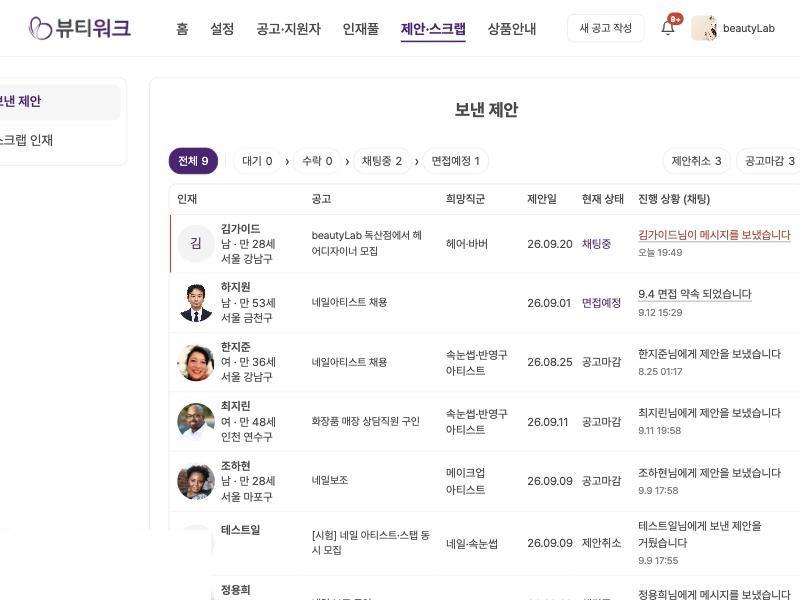
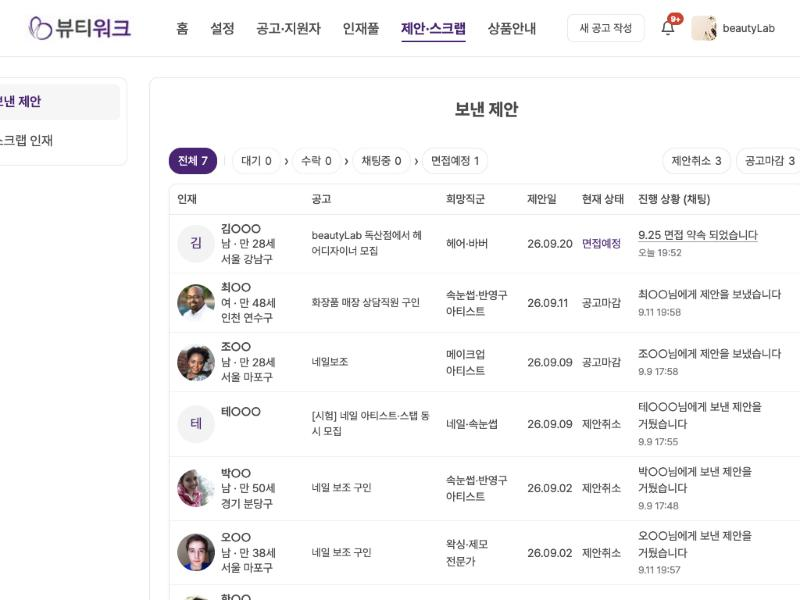
채워 넣기용 샘플 인재는 유·무료 상관없이 늘 이름을 가리고 아바타를 흐리게 한다
실존하지 않는 채워 넣기 인재인데 유료 기업에는 실명이 그대로 뜨고, 사진도
이름·성별과 안 맞을 수 있었다(예: 여성 이름에 남성·비동양인 사진). 이름
가리기는 지원·유료 여부와 무관하게 강제하고, 아바타는 opacity 로 거의
안 보이게 낮춘다.

사용가이드 3단계 캡처(3-proposal-list.jpg)에 실존 구직자 두 명의 실명·사진이
그대로 찍혀 있어 다시 찍어 바꿔 넣는다. 그 목록에 있던 낡은(9월 1일자) 테스트
제안 두 건은 지우고, 그중 한 명은 이 기업(beautyLab) 시험계정에서만 안 보이게
차단해 두었다 — 본인의 다른 기업 노출에는 손대지 않는다.

diff --git a/app/api/company/talent/route.ts b/app/api/company/talent/route.ts
@@ -165,6 +165,7 @@ export async function GET(req: NextRequest) {
         u.phone,
         u.avatar_url,
         u.avatar_public,
+        u.is_sample,
         u.portfolio_images,
         (
           SELECT ul.url FROM user_links ul
@@ -290,7 +291,10 @@ export async function GET(req: NextRequest) {
     const data = rows.map((r) => ({
       id: r.id,
       // 무료 기업회원에게는 우리 공고에 지원한 사람만 실명 — 제안을 수락한 사람도 가린다.
-      name: (열람가능 || r.applied_here) ? r.name : 이름가리기(r.name),
+      // 채워 넣기용 샘플 인재는 유료·지원 여부와 상관없이 늘 가린다 — 실존 인물이 아닌데
+      // 실명이 그대로 뜨면 안 된다.
+      name: r.is_sample ? 이름가리기(r.name) : ((열람가능 || r.applied_here) ? r.name : 이름가리기(r.name)),
+      isSample: !!r.is_sample,
       // 연락처는 채용을 실제로 하고 있는 곳(공고 보유)에만 연다. 화면에서만
       // 가리면 응답에 남아 개발자 도구로 그대로 보이므로 여기서 지워 보낸다.
       // 제안을 수락한 사람과는 대화로 이어 가면 된다 — 연락처는 지원했거나 유료일 때만.

diff --git a/lib/api/company.ts b/lib/api/company.ts
@@ -117,6 +117,8 @@ export type TalentItem = {
   interestedAt?: string | null;   // 제안에 「관심 있어요」를 누른 시각 — 누르면 연락처가 열린다
   interestMessage?: string | null;    // 관심에 붙인 한마디("주 4일 가능할까요?")
   interestProposalId?: string | null; // 그 대화를 이어 갈 제안 스레드
+  /** 채워 넣기용 샘플 인재. 실존 인물이 아니라 이름·사진이 서로 안 맞을 수 있어 카드에서 흐리게 보여준다. */
+  isSample?: boolean;
 };
 
 export const companyTalentApi = {

diff --git a/components/company/TalentCard.tsx b/components/company/TalentCard.tsx
@@ -104,7 +104,8 @@ export default function TalentCard({
   return (
     <div className="tal-card">
       <div className="tal-top">
-        <div className="tal-avatar" onClick={() => onOpenResume(t)} title="이력서 보기">
+        <div className="tal-avatar" onClick={() => onOpenResume(t)} title="이력서 보기"
+          style={t.isSample ? { opacity: 0.12 } : undefined}>
           {t.avatarUrl
             ? <img src={t.avatarUrl} alt={t.name} loading="lazy" />
             : <span>{t.name?.slice(0, 1) || "?"}</span>}
